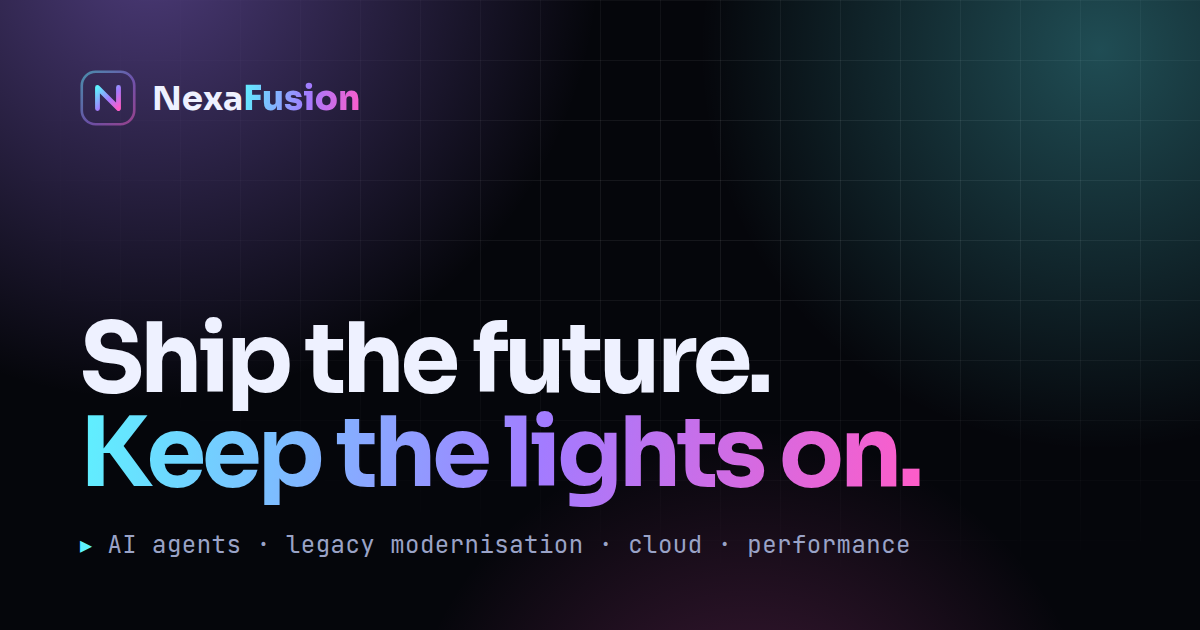
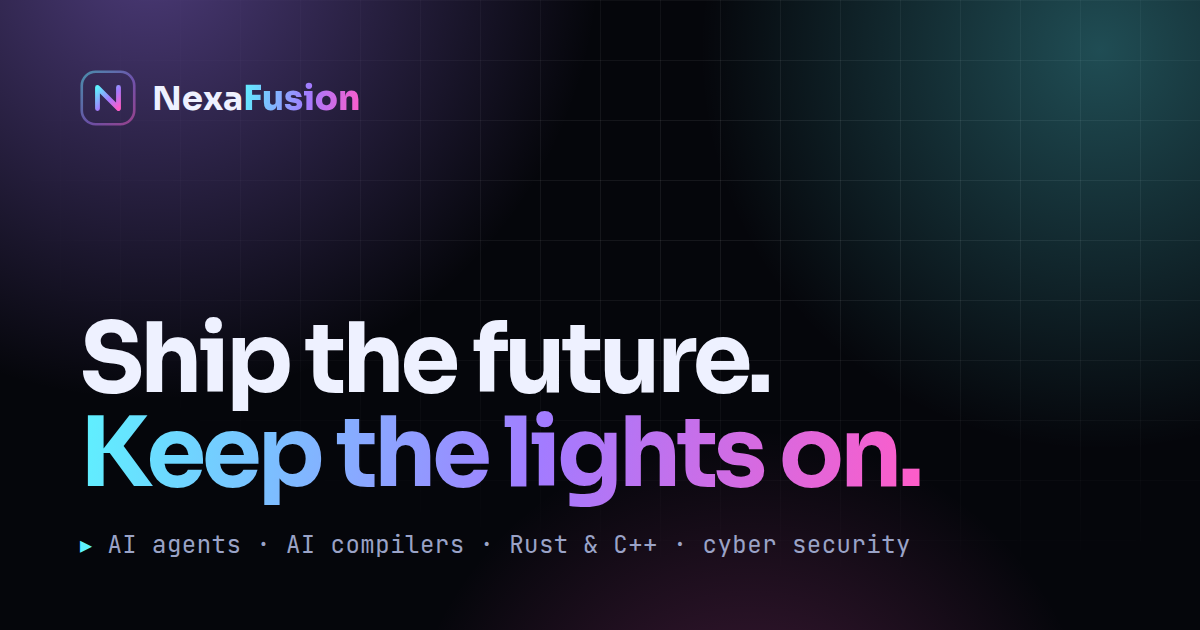
Broaden services to Rust, cyber security and AI compilers.
Replace the C++-only legacy card with Rust & C++ systems, add Cyber
security & resilience and AI compilers & performance, merge delivery into
cloud, and update the diagnostic, hero copy, metadata and share image.

Changed region(s): [[0.2158, 0.8444, 0.7708, 0.8746]]

diff --git a/index.html b/index.html
@@ -3,16 +3,16 @@
 <head>
   <meta charset="UTF-8" />
   <meta name="viewport" content="width=device-width, initial-scale=1, viewport-fit=cover" />
-  <meta http-equiv="Content-Security-Policy" content="default-src 'self'; script-src 'sha256-hOvUtvUtJm475IR8GMr91N0q5Pc1ph4DAzoRkcRrcPU=' 'sha256-of+YsfMWW8re893oddKB9t4O97g4HB03fDxXcBov1Kc='; style-src 'self' 'unsafe-inline'; img-src 'self' data:; font-src 'self'; connect-src 'self'; object-src 'none'; base-uri 'self'; form-action 'self'" />
+  <meta http-equiv="Content-Security-Policy" content="default-src 'self'; script-src 'sha256-hOvUtvUtJm475IR8GMr91N0q5Pc1ph4DAzoRkcRrcPU=' 'sha256-FL9KplbG6Ffvbg58rMIsuik/mm1J1pJG7Zj7M/RdhR4='; style-src 'self' 'unsafe-inline'; img-src 'self' data:; font-src 'self'; connect-src 'self'; object-src 'none'; base-uri 'self'; form-action 'self'" />
   <meta name="referrer" content="strict-origin-when-cross-origin" />
   <title>NexaFusion · Software Consultancy</title>
-  <meta name="description" content="NexaFusion is an experienced software engineering consultancy. AI and agent engineering, legacy C/C++ modernisation, cloud platforms and performance work — shipped in weeks, owned by you." />
+  <meta name="description" content="NexaFusion is an experienced software engineering consultancy: AI and agent engineering, AI compilers, memory-safe systems in Rust and C++, secure software and cyber resilience, and cloud platforms — shipped in weeks, owned by you." />
   <link rel="canonical" href="https://www.nexafusion.io/" />
   <meta name="theme-color" content="#05060b" />
   <meta property="og:type" content="website" />
   <meta property="og:url" content="https://www.nexafusion.io/" />
   <meta property="og:title" content="NexaFusion · Ship the future. Keep the lights on." />
-  <meta property="og:description" content="Experienced software engineering consultancy: AI agents, legacy modernisation, cloud platforms, performance." />
+  <meta property="og:description" content="Experienced software engineering consultancy: AI agents, AI compilers, Rust &amp; C++, cyber security, cloud platforms." />
   <meta property="og:site_name" content="NexaFusion" />
   <meta property="og:locale" content="en_GB" />
   <meta property="og:image" content="https://www.nexafusion.io/og.png" />
@@ -33,9 +33,9 @@
     "name": "NexaFusion",
     "url": "https://www.nexafusion.io/",
     "email": "hello@nexafusion.io",
-    "description": "Experienced software engineering consultancy: AI and agent engineering, legacy modernisation, cloud platforms and performance engineering.",
+    "description": "Experienced software engineering consultancy: AI and agent engineering, AI compilers, memory-safe systems in Rust and C++, cyber security and cloud platforms.",
     "areaServed": "GB",
-    "knowsAbout": ["AI agents", "C++", "Legacy modernisation", "Cloud platforms", "Performance engineering", "DevOps"]
+    "knowsAbout": ["AI agents", "AI compilers", "MLIR", "LLVM", "Rust", "C++", "Memory safety", "Cyber security", "Secure software development", "EU Cyber Resilience Act", "Cloud platforms", "Performance engineering"]
   }
   </script>
   <script>
@@ -547,7 +547,7 @@
             <span class="line"><span>Ship the future.</span></span>
             <span class="line"><span class="grad">Keep the lights on.</span></span>
           </h1>
-          <p class="lede">NexaFusion is an <strong>experienced software engineering consultancy</strong>. We fuse AI-native delivery with hard-won systems craft — from production agents to C++ performance to cloud platforms that don’t page you at 3am.</p>
+          <p class="lede">NexaFusion is an <strong>experienced software engineering consultancy</strong>. We fuse AI-native delivery with hard-won systems craft — from production agents and AI compilers to memory-safe Rust and C++, secure by design and built on platforms that don’t page you at 3am.</p>
           <div class="cta-row">
             <a class="btn" href="#contact">Start a conversation
               <svg viewBox="0 0 24 24" fill="none" stroke="currentColor" stroke-width="2.4" stroke-linecap="round" stroke-linejoin="round" aria-hidden="true"><path d="M5 12h14M13 6l6 6-6 6"/></svg>
@@ -570,8 +570,8 @@
 
     <div class="marquee" aria-label="Technologies we work with">
       <div class="marquee-track">
-        <span>C++23</span><span>Rust</span><span>TypeScript</span><span>Python</span><span>Go</span><span>LLM agents</span><span>MCP</span><span>RAG &amp; evals</span><span>Kubernetes</span><span>Terraform</span><span>AWS</span><span>Azure</span><span>GCP</span><span>PostgreSQL</span><span>Vulkan</span><span>WebGPU</span><span>CI/CD</span><span>OpenTelemetry</span>
-        <span aria-hidden="true">C++23</span><span aria-hidden="true">Rust</span><span aria-hidden="true">TypeScript</span><span aria-hidden="true">Python</span><span aria-hidden="true">Go</span><span aria-hidden="true">LLM agents</span><span aria-hidden="true">MCP</span><span aria-hidden="true">RAG &amp; evals</span><span aria-hidden="true">Kubernetes</span><span aria-hidden="true">Terraform</span><span aria-hidden="true">AWS</span><span aria-hidden="true">Azure</span><span aria-hidden="true">GCP</span><span aria-hidden="true">PostgreSQL</span><span aria-hidden="true">Vulkan</span><span aria-hidden="true">WebGPU</span><span aria-hidden="true">CI/CD</span><span aria-hidden="true">OpenTelemetry</span>
+        <span>Rust</span><span>C++23</span><span>MLIR</span><span>LLVM</span><span>Triton</span><span>CUDA</span><span>Python</span><span>TypeScript</span><span>Go</span><span>LLM agents</span><span>MCP</span><span>RAG &amp; evals</span><span>Threat modelling</span><span>SBOM</span><span>Fuzzing</span><span>Kubernetes</span><span>Terraform</span><span>AWS</span><span>Azure</span><span>GCP</span><span>WebGPU</span><span>OpenTelemetry</span>
+        <span aria-hidden="true">Rust</span><span aria-hidden="true">C++23</span><span aria-hidden="true">MLIR</span><span aria-hidden="true">LLVM</span><span aria-hidden="true">Triton</span><span aria-hidden="true">CUDA</span><span aria-hidden="true">Python</span><span aria-hidden="true">TypeScript</span><span aria-hidden="true">Go</span><span aria-hidden="true">LLM agents</span><span aria-hidden="true">MCP</span><span aria-hidden="true">RAG &amp; evals</span><span aria-hidden="true">Threat modelling</span><span aria-hidden="true">SBOM</span><span aria-hidden="true">Fuzzing</span><span aria-hidden="true">Kubernetes</span><span aria-hidden="true">Terraform</span><span aria-hidden="true">AWS</span><span aria-hidden="true">Azure</span><span aria-hidden="true">GCP</span><span aria-hidden="true">WebGPU</span><span aria-hidden="true">OpenTelemetry</span>
       </div>
     </div>
 
@@ -609,37 +609,37 @@
 
           <article class="card c-legacy reveal">
             <div class="ico"><svg viewBox="0 0 24 24" fill="none" stroke="currentColor" stroke-width="1.8" stroke-linecap="round" stroke-linejoin="round" aria-hidden="true"><path d="M8 6l-6 6 6 6M16 6l6 6-6 6M14 4l-4 16"/></svg></div>
-            <h3>Legacy modernisation</h3>
-            <p>Decades-old C and C++ moved onto modern toolchains, tests and CI — without a big-bang rewrite.</p>
-            <div class="tags"><span>C++23</span><span>Rust interop</span><span>Strangler fig</span></div>
+            <h3>Rust &amp; C++ systems</h3>
+            <p>Memory-safe by default. New components in Rust, existing C and C++ hardened, tested and modernised — no big-bang rewrite.</p>
+            <div class="tags"><span>Rust</span><span>C++23</span><span>FFI / interop</span><span>Memory-safety roadmaps</span></div>
           </article>
 
           <article class="card c-cloud reveal">
-            <div class="ico"><svg viewBox="0 0 24 24" fill="none" stroke="currentColor" stroke-width="1.8" stroke-linecap="round" stroke-linejoin="round" aria-hidden="true"><path d="M7 18a5 5 0 1 1 .9-9.9A6 6 0 0 1 19 10a4 4 0 0 1-1 8z"/></svg></div>
-            <h3>Cloud &amp; platform</h3>
-            <p>Infrastructure as code, paved roads for your developers and a bill you can explain to finance.</p>
-            <div class="tags"><span>Terraform</span><span>K8s</span><span>FinOps</span></div>
+            <div class="ico"><svg viewBox="0 0 24 24" fill="none" stroke="currentColor" stroke-width="1.8" stroke-linecap="round" stroke-linejoin="round" aria-hidden="true"><path d="M12 2l8 4v6c0 5-3.5 8.5-8 10-4.5-1.5-8-5-8-10V6z"/><path d="M9 12l2 2 4-4"/></svg></div>
+            <h3>Cyber security &amp; resilience</h3>
+            <p>Secure by design, not bolted on: threat modelling, supply-chain security and the evidence regulators now ask for.</p>
+            <div class="tags"><span>Threat modelling</span><span>SBOM</span><span>Fuzzing</span><span>EU CRA readiness</span></div>
           </article>
 
           <article class="card c-perf reveal">
-            <div class="ico"><svg viewBox="0 0 24 24" fill="none" stroke="currentColor" stroke-width="1.8" stroke-linecap="round" stroke-linejoin="round" aria-hidden="true"><path d="M13 2L4 14h7l-1 8 9-12h-7z"/></svg></div>
-            <h3>Performance engineering</h3>
-            <p>Profilers, flame graphs and cache lines. We find the milliseconds and the money hiding in your hot paths.</p>
-            <div class="tags"><span>Profiling</span><span>SIMD</span><span>GPU</span></div>
+            <div class="ico"><svg viewBox="0 0 24 24" fill="none" stroke="currentColor" stroke-width="1.8" stroke-linecap="round" stroke-linejoin="round" aria-hidden="true"><path d="M4 7h16M4 12h10M4 17h6"/><path d="M17 14l3 3-3 3"/></svg></div>
+            <h3>AI compilers &amp; performance</h3>
+            <p>Make models run faster and cost less: compiler passes, custom kernels and profiling from the graph down to the silicon.</p>
+            <div class="tags"><span>MLIR</span><span>LLVM</span><span>Triton</span><span>CUDA</span><span>Profiling</span></div>
           </article>
 
           <article class="card c-cto reveal">
-            <div class="ico"><svg viewBox="0 0 24 24" fill="none" stroke="currentColor" stroke-width="1.8" stroke-linecap="round" stroke-linejoin="round" aria-hidden="true"><path d="M12 2l8 4v6c0 5-3.5 8.5-8 10-4.5-1.5-8-5-8-10V6z"/><path d="M9 12l2 2 4-4"/></svg></div>
-            <h3>Fractional CTO &amp; due diligence</h3>
-            <p>Technical leadership on tap: architecture reviews, hiring, roadmaps and investor-grade tech DD.</p>
-            <div class="tags"><span>Architecture</span><span>Tech DD</span></div>
+            <div class="ico"><svg viewBox="0 0 24 24" fill="none" stroke="currentColor" stroke-width="1.8" stroke-linecap="round" stroke-linejoin="round" aria-hidden="true"><path d="M7 18a5 5 0 1 1 .9-9.9A6 6 0 0 1 19 10a4 4 0 0 1-1 8z"/></svg></div>
+            <h3>Cloud, platform &amp; delivery</h3>
+            <p>Infrastructure as code, CI that finishes before your coffee does, and a cloud bill you can explain to finance.</p>
+            <div class="tags"><span>Terraform</span><span>K8s</span><span>CI/CD</span><span>FinOps</span></div>
           </article>
 
           <article class="card c-dx reveal">
-            <div class="ico"><svg viewBox="0 0 24 24" fill="none" stroke="currentColor" stroke-width="1.8" stroke-linecap="round" stroke-linejoin="round" aria-hidden="true"><circle cx="6" cy="6" r="2.5"/><circle cx="18" cy="18" r="2.5"/><circle cx="6" cy="18" r="2.5"/><path d="M6 8.5v7M8.5 6H14a4 4 0 0 1 4 4v5.5"/></svg></div>
-            <h3>Delivery &amp; DevEx</h3>
-            <p>Fast, boring, safe releases. CI that finishes before your coffee does, and AI-assisted workflows your team trusts.</p>
-            <div class="tags"><span>CI/CD</span><span>Observability</span></div>
+            <div class="ico"><svg viewBox="0 0 24 24" fill="none" stroke="currentColor" stroke-width="1.8" stroke-linecap="round" stroke-linejoin="round" aria-hidden="true"><circle cx="12" cy="8" r="4"/><path d="M4 21c1.5-4 4.5-6 8-6s6.5 2 8 6"/></svg></div>
+            <h3>Fractional CTO &amp; due diligence</h3>
+            <p>Technical leadership on tap: architecture reviews, hiring, roadmaps and investor-grade tech DD.</p>
+            <div class="tags"><span>Architecture</span><span>Tech DD</span><span>Roadmaps</span></div>
           </article>
         </div>
       </div>
@@ -654,10 +654,10 @@
         <div class="diag">
           <div class="chips reveal" role="radiogroup" aria-label="Choose your biggest challenge">
             <button class="chip" type="button" role="radio" data-k="ai" aria-checked="true" tabindex="0"><span class="k">/01</span>We need AI in the product — properly</button>
-            <button class="chip" type="button" role="radio" data-k="legacy" aria-checked="false" tabindex="-1"><span class="k">/02</span>Our legacy codebase is holding us back</button>
-            <button class="chip" type="button" role="radio" data-k="cloud" aria-checked="false" tabindex="-1"><span class="k">/03</span>The cloud bill is out of control</button>
-            <button class="chip" type="button" role="radio" data-k="ship" aria-checked="false" tabindex="-1"><span class="k">/04</span>Releases are slow and scary</button>
-            <button class="chip" type="button" role="radio" data-k="perf" aria-checked="false" tabindex="-1"><span class="k">/05</span>It’s just too slow</button>
+            <button class="chip" type="button" role="radio" data-k="perf" aria-checked="false" tabindex="-1"><span class="k">/02</span>Our AI models are slow or costly to run</button>
+            <button class="chip" type="button" role="radio" data-k="legacy" aria-checked="false" tabindex="-1"><span class="k">/03</span>Our C/C++ needs to become memory-safe</button>
+            <button class="chip" type="button" role="radio" data-k="sec" aria-checked="false" tabindex="-1"><span class="k">/04</span>We need to be secure by design</button>
+            <button class="chip" type="button" role="radio" data-k="cloud" aria-checked="false" tabindex="-1"><span class="k">/05</span>The cloud bill is out of control</button>
             <button class="chip" type="button" role="radio" data-k="lead" aria-checked="false" tabindex="-1"><span class="k">/06</span>We need technical leadership</button>
           </div>
           <div class="plan reveal" aria-live="polite">
@@ -832,22 +832,22 @@
                 ["Use-case triage", "Rank candidate features by value, risk and data readiness. Kill the weak ones early."],
                 ["Eval harness first", "Define what “good” means, build the test set, then build the agent against it."],
                 ["Production rollout", "Guardrails, tracing, cost budgets and a staged release behind flags."]] },
-      legacy: { id: "legacy-modernise", t: "Modernise without the big-bang rewrite", d: "Rewrites fail. Incremental modernisation with a safety net works.", s: [
-                ["Characterise", "Build tests around today’s behaviour so nothing changes by accident."],
-                ["Modern toolchain", "Current compilers, sanitisers, static analysis and CI on every commit."],
-                ["Strangle the worst parts", "Replace the riskiest modules one at a time, measured as we go."]] },
+      legacy: { id: "memory-safe", t: "Memory-safe, without the big-bang rewrite", d: "Rewrites fail. Incremental hardening with Rust where it pays works.", s: [
+                ["Characterise & roadmap", "Tests around today’s behaviour, then a memory-safety roadmap ranked by real risk."],
+                ["Harden what stays", "Modern C++, sanitisers, fuzzing and static analysis on every commit."],
+                ["Rust where it pays", "Rewrite the riskiest, most exposed components in Rust behind clean interfaces."]] },
+      sec:    { id: "secure-by-design", t: "Secure by design — and able to prove it", d: "Customers and regulators increasingly want evidence, not promises.", s: [
+                ["Threat model", "Map assets, attack surfaces and abuse cases with your engineers, not just for them."],
+                ["Close the gaps", "Supply-chain security, SBOMs, secrets, fuzzing and fixes for the findings that matter."],
+                ["Evidence & process", "Vulnerability handling and secure-development records ready for audits and the EU Cyber Resilience Act."]] },
       cloud:  { id: "cloud-cost", t: "A cloud bill you can explain", d: "Cost is an engineering problem. We treat it like one.", s: [
                 ["Attribute every pound", "Tagging and dashboards that tie spend to teams and features."],
                 ["Harvest the easy wins", "Right-size, schedule, commit — the changes that pay back in weeks."],
                 ["Build it in", "Cost budgets in CI and IaC so it never drifts back."]] },
-      ship:   { id: "delivery", t: "Releases that are fast and boring", d: "If deploying is scary, people deploy less — and every release gets scarier.", s: [
-                ["Measure the pipeline", "Lead time, failure rate, recovery time. Find the real bottleneck."],
-                ["Make it safe", "Feature flags, progressive delivery and automated rollback."],
-                ["Make it fast", "Parallel, cached CI and AI-assisted review your team actually trusts."]] },
-      perf:   { id: "performance", t: "Find the milliseconds — and the money", d: "Speed is a feature, and usually a cost saving too.", s: [
-                ["Profile, don’t guess", "Flame graphs and traces under realistic load to find the true hot paths."],
-                ["Fix the big three", "Algorithms, memory layout, I/O — the usual suspects, in order of payback."],
-                ["Guard the gains", "Performance budgets and benchmarks in CI so regressions get caught."]] },
+      perf:   { id: "ai-compilers", t: "Faster models, smaller bills", d: "Inference cost and latency are compiler and kernel problems as much as model problems.", s: [
+                ["Profile the stack", "Trace from the model graph to the GPU to find where time and money really go."],
+                ["Compile & fuse", "Graph-level passes, quantisation and fused kernels with MLIR, Triton or CUDA."],
+                ["Guard the gains", "Benchmarks and performance budgets in CI so regressions get caught."]] },
       lead:   { id: "fractional-cto", t: "Technical leadership, on tap", d: "Sometimes you need an experienced technical leader without a full-time hire.", s: [
                 ["Architecture review", "A candid read of where you are, where the risks are, what to do first."],
                 ["Roadmap & hiring", "A plan the board understands and the team believes in — and help hiring for it."],
